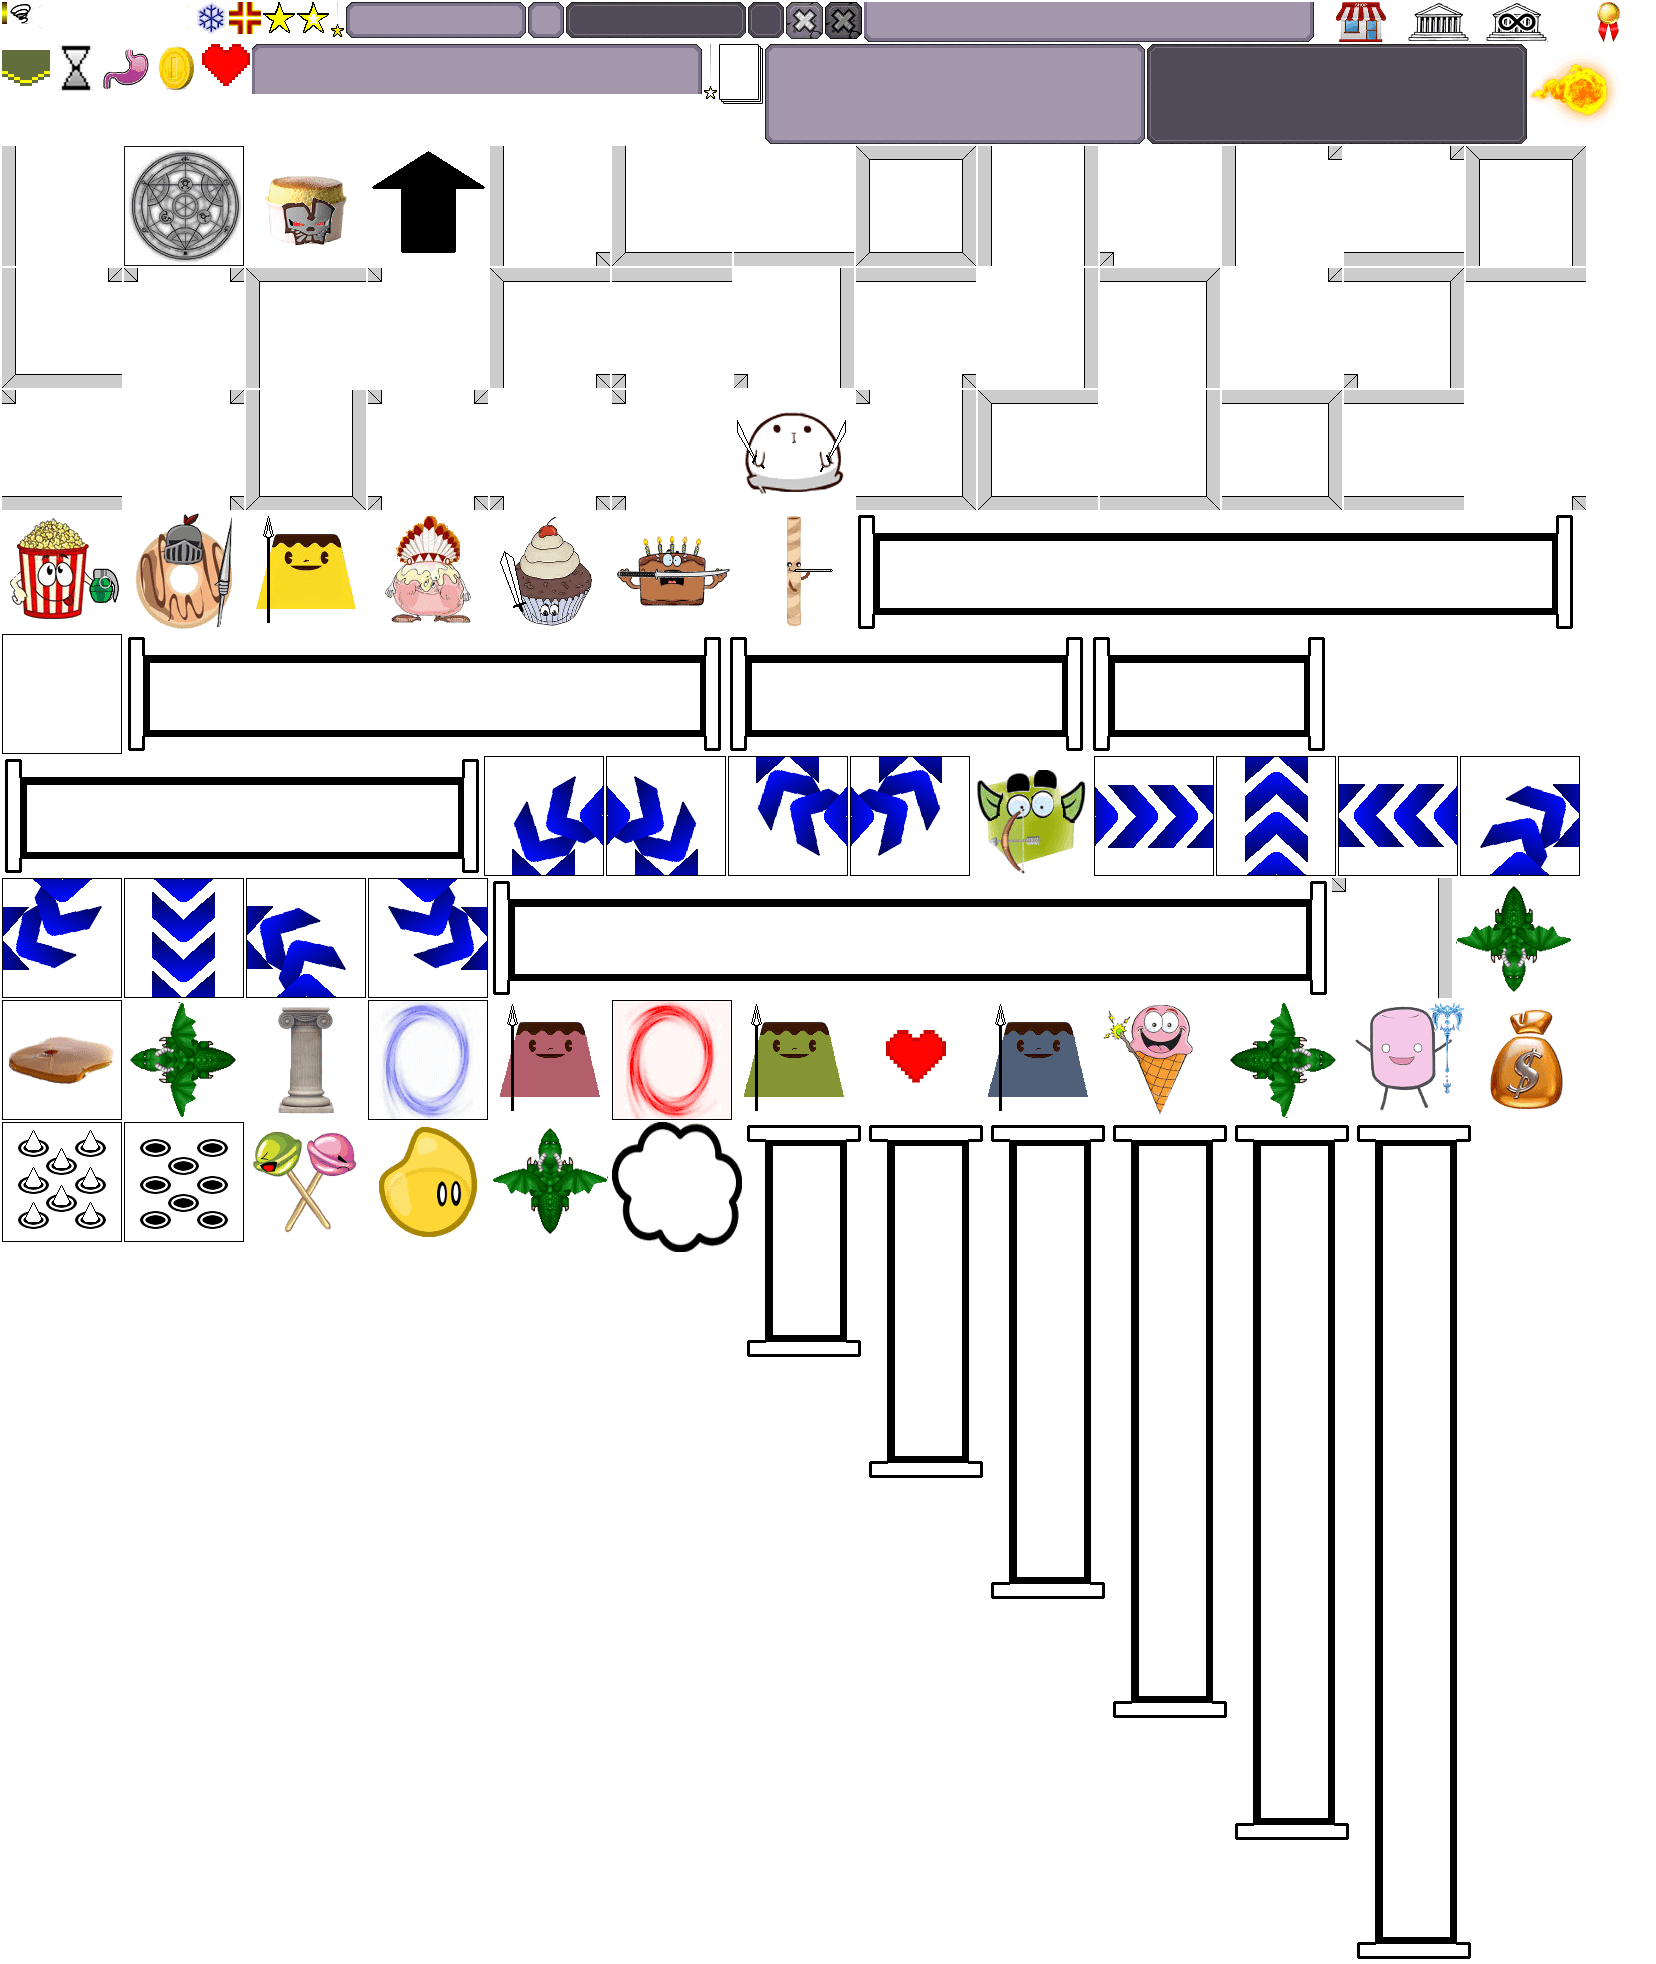
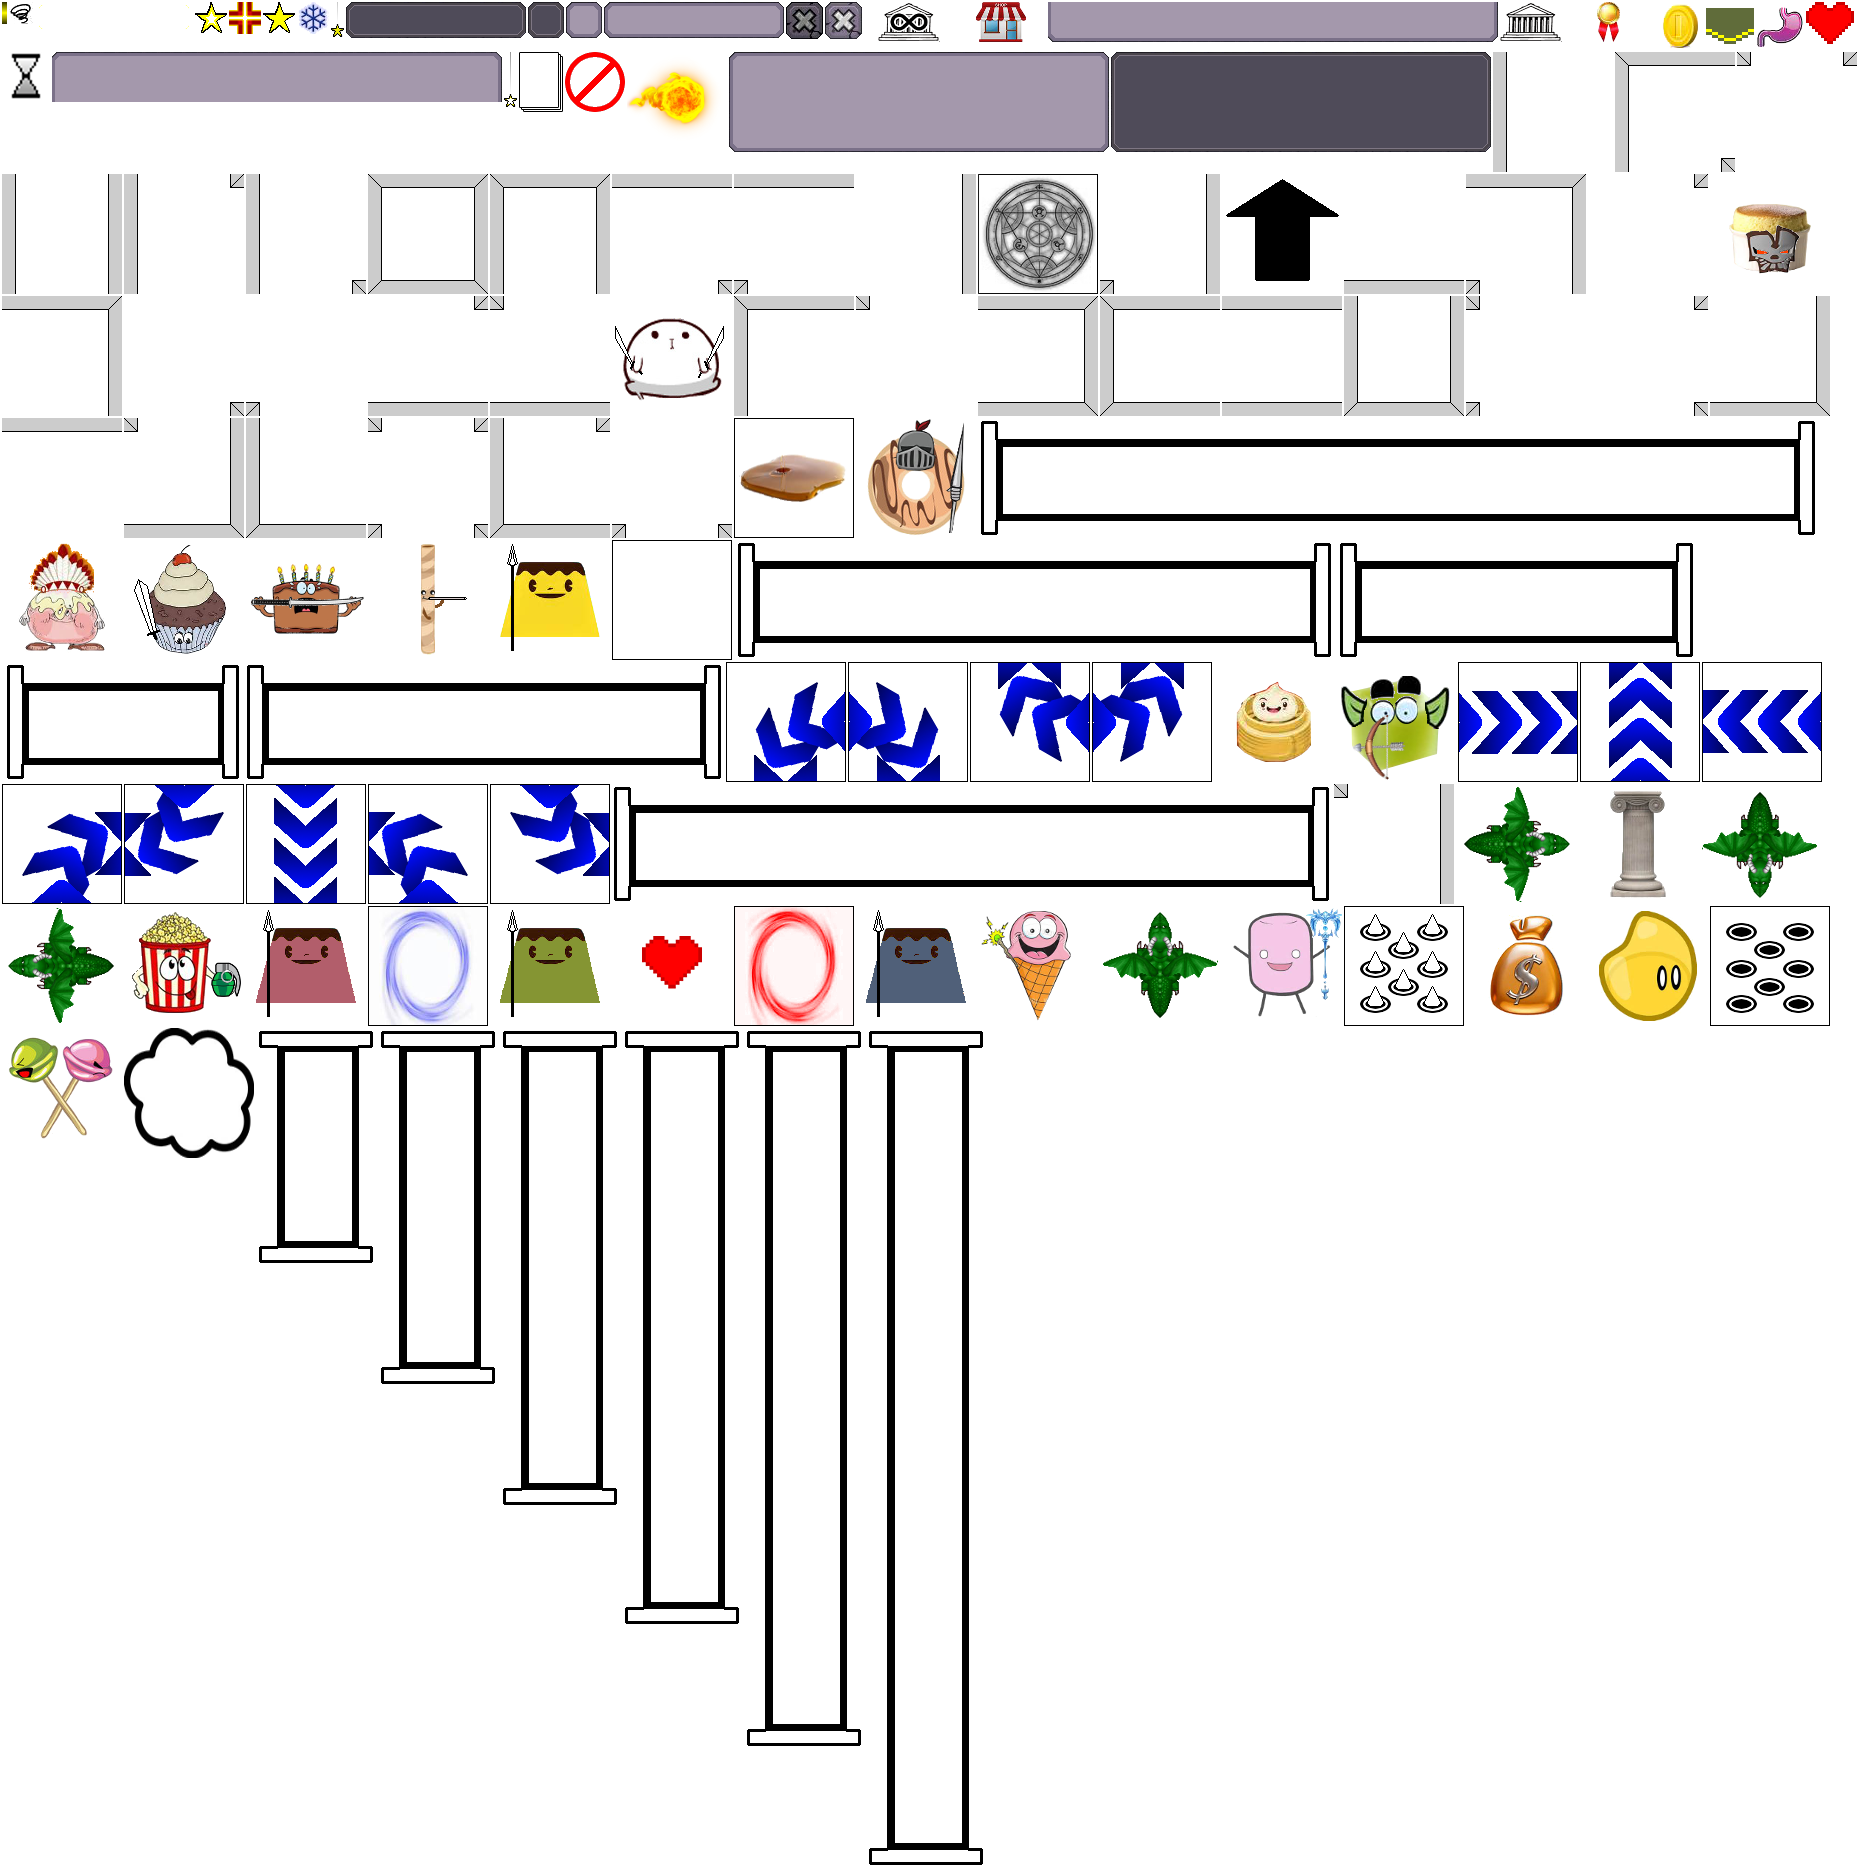
add baozi

Changed region(s): [[0.0, 0.0, 1.0, 1.0]]

diff --git a/src/texts.js b/src/texts.js
@@ -34,6 +34,10 @@ var texts_locale = {
                 name:"豌豆糕射手",
                 desc:"远程攻击。\n攻击力低。\n饱腹度一般。\n\n是的，他的前世绝对是射手，天敌是僵尸。"
             },
+            baozi: {
+                name:"豆沙包封印师",
+                desc:"攻击造成封魔效果（使你无法摸牌）。\n攻击力较低。\n饱腹度较高。"
+            },
             cherrycake: {
                 name: "纸杯蛋糕下士",
                 desc: "攻击力一般。\n饱腹度一般。"
@@ -267,6 +271,7 @@ var texts_locale = {
             
             //enemy
             enemy:{
+                baozi:"豆沙包封印师将在无尽关卡中出现",
                 "chocolate-cake":"黑森林武士将在无尽关卡中出现",
                 donut:"甜甜圈骑士将在无尽关卡中出现",
                 eggroll:"蛋卷吹箭手将在无尽关卡中出现",
@@ -508,6 +513,22 @@ var texts_locale = {
                 },
                 desc: function (level) {
                     return "吃掉等级" + ACHIEVEMENT_ENTRY_MAP["kill-max-level-eggroll"].requirement(level) + "或以上的蛋卷吹箭手"
+                }
+            },
+            "kill-level-baozi": {
+                name:function(level){
+                    return "豆沙包杀手"+LEVEL_TEXT_MAP[level];
+                },
+                desc: function (level) {
+                    return "吃掉总等级" + ACHIEVEMENT_ENTRY_MAP["kill-level-baozi"].requirement(level) + "的豆沙包封印师"
+                }
+            },
+            "kill-max-level-baozi": {
+                name:function(level){
+                    return "精英豆沙包杀手"+LEVEL_TEXT_MAP[level];
+                },
+                desc: function (level) {
+                    return "吃掉等级" + ACHIEVEMENT_ENTRY_MAP["kill-max-level-baozi"].requirement(level) + "或以上的豆沙包封印师"
                 }
             }
         }

diff --git a/src/scene/main-game.js b/src/scene/main-game.js
@@ -337,6 +337,13 @@ var MainLayer = cc.Layer.extend({
         } else {
             this.deckIcon.setVisible(false);
         }
+        var prevForbid = currentRoom.getHero().previous("forbidDraw");
+        var currentForbid = currentRoom.getHero().get("forbidDraw");
+        if ( prevForbid && !currentForbid ) {
+//TODO
+        } else if ( !prevForbid && currentForbid ) {
+
+        }
     },
     renderConditionLabel:function(condition){
         var label = this.conditionLabels[condition.conditionType+"_"+condition.type+( condition.subtype ? ("_"+condition.subtype):"")];
@@ -531,6 +538,7 @@ var MainLayer = cc.Layer.extend({
         currentRoom.getHero().on("change:exp",this.onExpChange, this);
         currentRoom.getHero().on("change:requireExp",this.onRequireExpChange, this);
         currentRoom.getHero().on("levelUp",this.onLevelUp, this);
+        currentRoom.getHero().on("change:forbidDraw",this.renderDeck, this);
         currentRoom.on("change:turnNumber",this.onTurnNumberChange,this);
         currentRoom.on("change:turnLimit",this.onTurnNumberChange,this);
         currentRoom.on("change:timeNumber",this.onTimeNumberChange,this);
@@ -651,6 +659,7 @@ var MainLayer = cc.Layer.extend({
         currentRoom.getHero().off("change:exp",this.onExpChange, this);
         currentRoom.getHero().off("change:requireExp",this.onRequireExpChange, this);
         currentRoom.getHero().off("levelUp",this.onLevelUp, this);
+        currentRoom.getHero().off("change:forbidDraw",this.renderDeck, this);
         currentRoom.off("change:turnNumber",this.onTurnNumberChange,this);
         currentRoom.off("change:turnLimit",this.onTurnNumberChange,this);
         currentRoom.off("change:statistic",this.onStatisticChange,this);

diff --git a/src/model/hero.js b/src/model/hero.js
@@ -46,7 +46,8 @@ var HeroModel = MovableModel.extend({
         MovableModel.prototype.onTurnStart.call(this);
         this.set({
             buff:{},
-            dizzy: Math.max(0, this.get("dizzy") - 1 )
+            dizzy: Math.max(0, this.get("dizzy") - 1 ),
+            forbidDraw: Math.max(0, this.get("forbidDraw") - 1 )
         });
     },
     getPosition:function(){
@@ -277,8 +278,15 @@ var HeroModel = MovableModel.extend({
             movable.taken();
         }
     },
+    getDrawCount:function(){
+        if (this.get("forbidDraw") ) return 0;
+        else return this.get("drawEachTurn")
+    },
     getDizzy:function(amount){
         this.set("dizzy",amount);
+    },
+    getForbidDraw:function(amount){
+        this.set("forbidDraw",amount);
     },
     getDisturb:function(amount){
         _.each(currentRoom.getHand(),function(cardModel){

diff --git a/src/model/enemy.js b/src/model/enemy.js
@@ -211,6 +211,24 @@ MOVABLE_MODEL_MAP.archer = EnemyModel.extend({
     }
 })
 
+MOVABLE_MODEL_MAP.baozi = EnemyModel.extend({
+    defaults:function(){
+        return _.extend( EnemyModel.prototype.defaults.call(this),{
+            type: "baozi",
+            attackType: ATTACK_TYPE_MELEE
+        } )
+    },
+    expOfLevel:function(l){
+        return l*EXP_INFLATION_RATE*3+1;
+    },
+    afterHit:function(heroModel){
+        heroModel.getForbidDraw(Math.min(8,this.get("level")/3)+1);
+    },
+    attackOfLevel:function(l){
+        return Math.round(l*3/2);
+    }
+})
+
 MOVABLE_MODEL_MAP.cherrycake = EnemyModel.extend({
     defaults:function(){
         return _.extend( EnemyModel.prototype.defaults.call(this),{

diff --git a/src/model/room.js b/src/model/room.js
@@ -464,7 +464,7 @@ var RoomModel = Backbone.Model.extend({
         this.set("phase", PHASE_DRAW);
         //draw card
         if ( this.canDrawCard() ) {
-            for ( var i = 0; i < this.__hero.get("drawEachTurn"); i++ ) {
+            for ( var i = 0; i < this.__hero.getDrawCount(); i++ ) {
                 this.drawCard();
             }
         }
